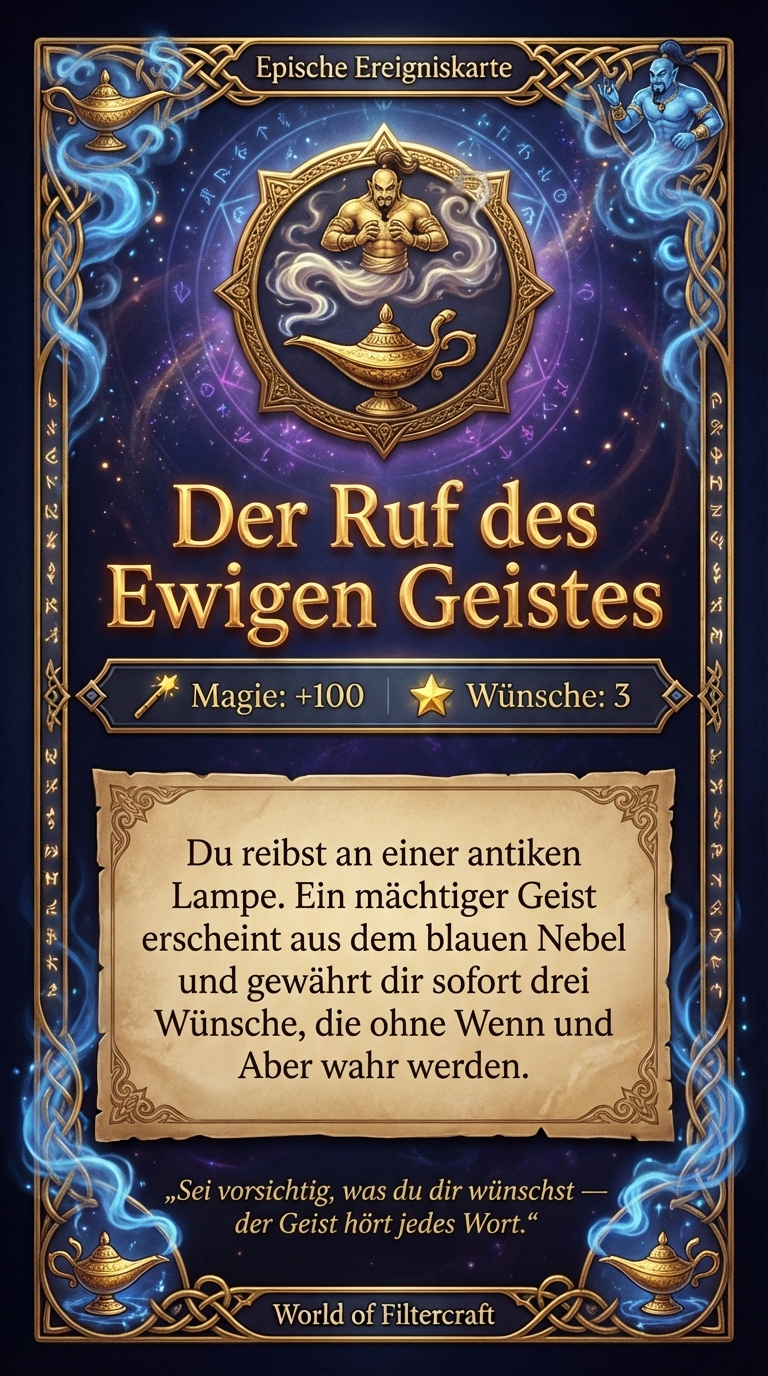
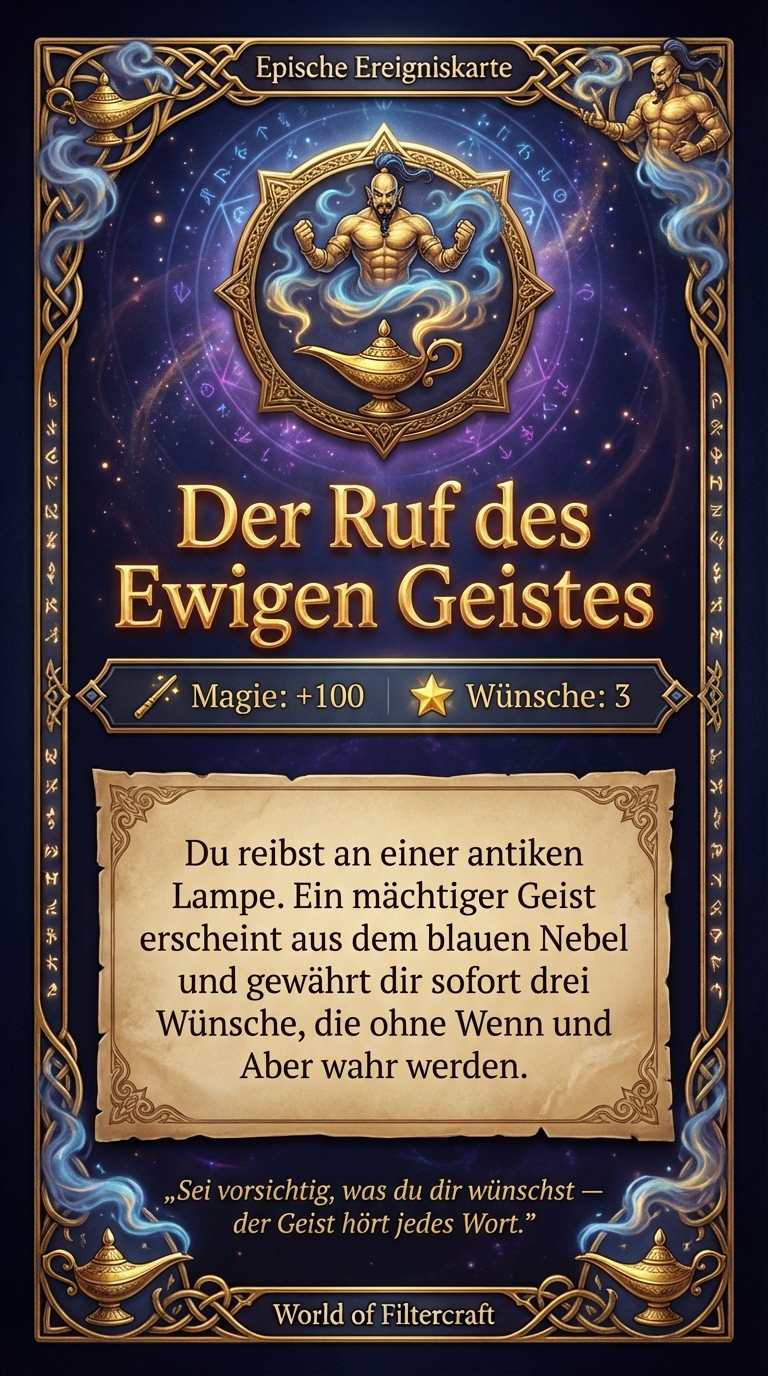
Apply Jennifer's feedback to event cards and hero 02
- Card 04: Dschin emblem instead of generic genie
- Card 05: Hero statues (gender-balanced) in border, not pillars
- Card 06: Sacred spring (Quelle) in border, not alchemy bottles
- Card 07: Description now mentions receiving the banner
- Card 08: Taschenuhr instead of Amulett, pocket watch emblem
- Hero 02: Magischer Filter renamed to Umhang der Unsichtbarkeit

diff --git a/cards/prompts/card08-prompt.md b/cards/prompts/card08-prompt.md
@@ -10,12 +10,12 @@
 ## Layout & Composition
 
 1. **Top banner**: Small text "Epische Ereigniskarte" in elegant gold serif font
-2. **Icon area**: A detailed gold emblem of an ornate hourglass with magical sand flowing, rendered in a heraldic/medallion style (same medallion frame as reference)
+2. **Icon area**: A detailed gold emblem of an ornate magical pocket watch (Taschenuhr) with arcane symbols on its face, chain dangling, rendered in a heraldic/medallion style (same medallion frame as reference)
 3. **Title**: Large dramatic fantasy lettering reading exactly: **Chronos' Sanduhr** - gold text with subtle glow effect
 4. **Stats bar**: A horizontal bar or panel below the title showing game stats in same style as reference:
-   - **Zeit: +5h/Tag** (hourglass icon)
+   - **Zeit: +5h/Tag** (pocket watch icon)
    - **Magie: +80** (wand icon)
-5. **Description area**: A parchment-colored text panel with elegant serif text reading exactly: **Du hast die Macht über das Gefüge der Zeit gewonnen. Ein magisches Amulett schenkt dir ab sofort jeden Tag 5 zusätzliche Stunden, die nur für dich existieren.**
+5. **Description area**: A parchment-colored text panel with elegant serif text reading exactly: **Du hast die Macht über das Gefüge der Zeit gewonnen. Eine magische Taschenuhr schenkt dir ab sofort jeden Tag 5 zusätzliche Stunden, die nur für dich existieren.**
 6. **Flavor/lore text**: Below the description panel, a short italic quote in smaller gold text: *"Zeit ist die einzige Währung, die selbst Götter nicht prägen können."*
 7. **Bottom branding**: Text reading **World of Filtercraft** in smaller gold lettering
 

diff --git a/cards/prompts/card04-prompt.md b/cards/prompts/card04-prompt.md
@@ -10,7 +10,7 @@
 ## Layout & Composition
 
 1. **Top banner**: Small text "Epische Ereigniskarte" in elegant gold serif font
-2. **Icon area**: A detailed gold emblem of an antique magic lamp with mystical smoke/genie emerging, rendered in a heraldic/medallion style (same medallion frame as reference)
+2. **Icon area**: A detailed gold emblem of an antique magic lamp with a powerful Dschin (genie) emerging from mystical smoke, rendered in a heraldic/medallion style (same medallion frame as reference)
 3. **Title**: Large dramatic fantasy lettering reading exactly: **Der Ruf des Ewigen Geistes** - gold text with subtle glow effect
 4. **Stats bar**: A horizontal bar or panel below the title showing game stats in same style as reference:
    - **Magie: +100** (wand icon)
@@ -22,7 +22,7 @@
 ## Environment
 
 - Match reference card: deep midnight blue/purple gradient background, magical particles, faint arcane symbols
-- Ornate gold filigree border with Celtic knotwork and runes, but with **swirling smoke, magic lamps, and mystical spirit motifs** woven into the border corners and edges. Unique border for this card.
+- Ornate gold filigree border with Celtic knotwork and runes, but with **swirling smoke, magic lamps, and Dschin/genie motifs** woven into the border corners and edges. Unique border for this card.
 
 ## Critical Requirements
 

diff --git a/cards/prompts/card07-prompt.md b/cards/prompts/card07-prompt.md
@@ -15,7 +15,7 @@
 4. **Stats bar**: A horizontal bar or panel below the title showing game stats in same style as reference:
    - **Diplomatie: +100** (dove icon)
    - **Ruhm: +70** (star icon)
-5. **Description area**: A parchment-colored text panel with elegant serif text reading exactly: **Deine bloße Präsenz beendet die Feindseligkeit. Ewiger Weltfrieden bricht in allen Kontinenten an. Die Schwerter werden zu Pflugscharen umgeschmiedet.**
+5. **Description area**: A parchment-colored text panel with elegant serif text reading exactly: **Du erhältst das Banner des Ewigen Bundes! Deine bloße Präsenz beendet die Feindseligkeit. Ewiger Weltfrieden bricht in allen Kontinenten an. Die Schwerter werden zu Pflugscharen umgeschmiedet.**
 6. **Flavor/lore text**: Below the description panel, a short italic quote in smaller gold text: *"An dem Tag, als die Schwerter schwiegen, sang die Welt."*
 7. **Bottom branding**: Text reading **World of Filtercraft** in smaller gold lettering
 

diff --git a/cards/prompts/card05-prompt.md b/cards/prompts/card05-prompt.md
@@ -22,7 +22,7 @@
 ## Environment
 
 - Match reference card: deep midnight blue/purple gradient background, magical particles, faint arcane symbols
-- Ornate gold filigree border with Celtic knotwork and runes, but with **stone pillars, laurel wreaths, and monument motifs** woven into the border corners and edges. Unique border for this card.
+- Ornate gold filigree border with Celtic knotwork and runes, but with **heroic statues (both male and female hero figures), laurel wreaths, and monument motifs** - the statues in the corners should depict heroic figures, gender-balanced (not pillars or church towers) woven into the border corners and edges. Unique border for this card.
 
 ## Critical Requirements
 

diff --git a/cards/prompts/card06-prompt.md b/cards/prompts/card06-prompt.md
@@ -22,7 +22,7 @@
 ## Environment
 
 - Match reference card: deep midnight blue/purple gradient background, magical particles, faint arcane symbols
-- Ornate gold filigree border with Celtic knotwork and runes, but with **vines, chalices, and elixir/potion motifs** woven into the border corners and edges. Unique border for this card.
+- Ornate gold filigree border with Celtic knotwork and runes, but with **vines, chalices, and sacred spring/water source (Quelle) motifs** - show flowing water from a sacred spring in the borders, NOT alchemy bottles or potions woven into the border corners and edges. Unique border for this card.
 
 ## Critical Requirements
 

diff --git a/cards/heroes/prompts/hero02-prompt.md b/cards/heroes/prompts/hero02-prompt.md
@@ -18,7 +18,7 @@
    - **Heimlichkeit: 19**
    - **Intelligenz: 15**
 6. **NLP-Pfad**: **Struktur: Optional | Fokus: Weg-von | Maßstab: Internal**
-7. **Magischer Filter**: **Schleier der Einsamkeit**
+7. **Magischer Filter**: **Umhang der Unsichtbarkeit**
 8. **Description**: **Regeln sind Fesseln für deinen Geist. Du findest immer einen kreativen Ausweg. Du willst Gefahr und Kontrolle vermeiden und vertraust nur deinem eigenen elfischen Instinkt.**
 9. **Bottom**: **World of Filtercraft**
 
